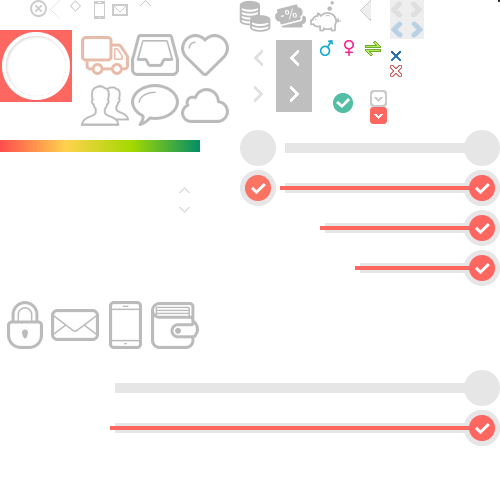
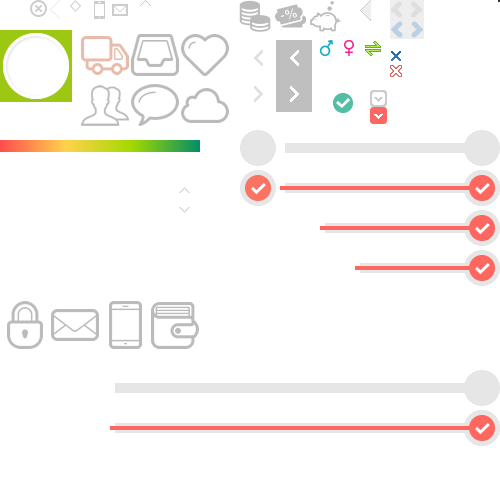
2017 8 11 coding

Changed region(s): [[0.0, 0.06, 0.15, 0.21]]

diff --git a/shop/templates/default/css/member.css b/shop/templates/default/css/member.css
@@ -53,9 +53,9 @@ label.error i { margin-right: 4px;}
 
 /* 按钮
 -------------------------------------------*/
-a.ncm-btn-mini { font: normal 12px/20px arial; color: #777; background-color: #F5F5F5; text-align: center; vertical-align: middle; display: inline-block; height: 20px; padding: 0 10px; margin-right: 2px; border-style: solid; border-width: 1px; border-color: #DCDCDC #DCDCDC #B3B3B3 #DCDCDC; cursor: pointer;}
-a:hover.ncm-btn-mini { text-decoration: none; color: #333; background-color: #E6E6E6;border-color: #CFCFCF #CFCFCF #B3B3B3 #CFCFCF;}
-a.ncm-btn { font: normal 12px/20px "microsoft yahei"; color: #777!important; background-color: #F5F5F5; text-align: center; vertical-align: middle; display: inline-block; height: 20px; padding: 4px 12px; border: solid 1px; border-color: #DCDCDC #DCDCDC #B3B3B3 #DCDCDC; cursor: pointer;}
+a.ncm-btn-mini { font: normal 12px/20px arial; color: #FFF; background-color: #21b384; text-align: center; vertical-align: middle; display: inline-block; height: 20px; padding: 0 10px; margin-right: 2px; border-style: solid; border-width: 1px; border-color: #21b384 #21b384 #0c8860 #21b384; cursor: pointer;}
+a:hover.ncm-btn-mini { text-decoration: none; color: #21b384; background-color: #fff;border-color: #CFCFCF #CFCFCF #B3B3B3 #CFCFCF;}
+a.ncm-btn { font: normal 12px/20px "microsoft yahei"; color: #777!important; background-color: #F5F5F5; text-align: center; vertical-align: middle; display: inline-block; height: 20px; padding: 4px 12px; border: solid 1px; border-color: #21b384 #21b384 #0c8860 #21b384; cursor: pointer;}
 a:hover.ncm-btn { text-decoration: none; color: #333; background-color: #E6E6E6; border-color: #CFCFCF #CFCFCF #B3B3B3 #CFCFCF;}
 a.ncm-btn-mini i, a.ncm-btn i { font-size: 14px !important; vertical-align: middle; margin: 0 4px 0 0 !important;}
 a.ncm-btn-blue, a.ncm-btn-acidblue, a.ncm-btn-green, a.ncm-btn-orange, a.ncm-btn-red, a.ncm-btn-black,
@@ -198,7 +198,7 @@ i[class*="icon-"] { font-size: 14px; margin-right: 4px;}
 .ncm-container .right-layout .wrap { width: 980px; float: right;}
 
 /*用户中心左侧内容*/
-.ncm-l-top { background-color: #EC4F4A; width: 100%; height: 40px; position: relative; z-index: 3;}
+.ncm-l-top { background-color: #88af0e; width: 100%; height: 40px; position: relative; z-index: 3;}
 .ncm-l-top h2 a { font-size: 14px; font-weight: 600; color: #FFF; height: 20px; float: left; padding: 10px 0 10px 20px;}
 .ncm-l-top h2 a:hover { text-decoration: none;}
 .ncm-l-top .set-btn { background: url(../images/member/member_pics.png) no-repeat 0 0; display: block; width: 20px; height: 20px; float: right; margin: 10px;}
@@ -217,18 +217,18 @@ i[class*="icon-"] { font-size: 14px; margin-right: 4px;}
 .set-container .menu-list dd.checked { color: #B22D00; font-weight: 600;}
 .set-container .menu-list dd .checkbox { vertical-align: middle; margin-right: 6px;}
 .set-container .bottom { width: 98%; padding: 10px 0 5px 0; margin: 10px auto 0 auto; border-top: solid 1px #F5F5F5;}
-.set-container .bottom .setting { color: #FFF; background-color: #E43E41; width: 66px; height: 26px; margin-left: 15px; border: none; border-radius: 3px; cursor: pointer;}
+.set-container .bottom .setting { color: #FFF; background-color: #88af0e; width: 66px; height: 26px; margin-left: 15px; border: none; border-radius: 3px; cursor: pointer;}
 .set-container .bottom .cancel { color: #333; line-height: 24px; background-color: #F6F6F6; vertical-align: top; text-align: center; display: inline-block; *display: inline; width: 44px; height: 24px; margin-left: 5px; border: solid 1px #DDD; border-radius: 3px; *zoom: 1; cursor: pointer;}
 .set-container .bottom a:hover { text-decoration: none;}
 
-.ncm-user-info { background-color: #FD6760; padding: 15px 20px; overflow: hidden;}
+.ncm-user-info { background-color: #9cc813; padding: 15px 20px; overflow: hidden;}
 .ncm-user-info .avatar { width: 72px; height: 72px; float: left; position: relative; z-index: 1;}
 .ncm-user-info .avatar .frame { background: url(../images/member/member_pics.png) no-repeat 0 -30px; width: 72px; height: 72px; position: absolute; z-index: 2; top: 0; left: 0;}
 .ncm-user-info .avatar img { width: 64px; height: 64px; position: absolute; z-index: 1; top: 4px; left: 4px;}
 .ncm-user-info .new-message { font: 600 12px/16px Arial; color: #FFF; background-color: #EC4F4A; text-align: center; min-width: 16px; height: 16px; border: solid 2px #FFF;  border-radius: 8px;position: absolute; z-index: 3; top: 0; right: 4px;}
 .ncm-user-info .handle { width: 80px; float: right;}
-.ncm-user-info .handle a { line-height: 24px; color: #FECAC8; display: block; height: 24px; clear: both; }
-.ncm-user-info .handle a:hover { color: #FFF; text-decoration: none;}
+.ncm-user-info .handle a { line-height: 24px; color: #FFF; display: block; height: 24px; clear: both; }
+.ncm-user-info .handle a:hover { color: #587109; text-decoration: none;}
 .ncm-user-info .handle i { font-size: 14px; margin-right: 5px;}
 .ncm-user-info .name { font: 600 14px/20px "microsoft yahei"; color: #FFF; padding-top: 8px; display: block; clear: both;}
 
@@ -273,11 +273,11 @@ i[class*="icon-"] { font-size: 14px; margin-right: 4px;}
 .ncm-index-container #security { height: 150px;}
 .ncm-index-container #transaction,
 .ncm-index-container #shopping { height: 320px;}
-.ncm-index-container #transaction .outline { background-color: #FEFBF8;}
+.ncm-index-container #transaction .outline { background-color: rgba(252, 255, 244, 0.21);}
 .ncm-index-container .normal:hover,
 .ncm-index-container .double:hover { z-index: 2;}
 .ncm-index-container .normal:hover .outline,
-.ncm-index-container .double:hover .outline { border-color: #FD6760; box-shadow: 0 0 5px rgba(204,204,204,0.5);}
+.ncm-index-container .double:hover .outline { border-color: #9cc813; box-shadow: 0 0 5px rgba(204,204,204,0.5);}
 .ncm-index-container .more { line-height: 40px; text-align: center; width: 95%; height: 40px; margin: 8px auto 0 auto; border-top: dotted 1px #E7E7E7;}
 .ncm-index-container .more a { color: #777;}
 .ncm-index-container .more a:hover { text-decoration: none; color: #FD6760;}
@@ -292,7 +292,7 @@ i[class*="icon-"] { font-size: 14px; margin-right: 4px;}
 .ncm-index-container .user-account #voucher .icon { background-position: -275px 0;}
 .ncm-index-container .user-account #points .icon { background-position: -310px 0;}
 .ncm-index-container .user-account li .value { font-weight: 600; line-height: 28px; color: #999; display: block; clear: both;}
-.ncm-index-container .user-account li .value em { font: 24px/28px Arial; color: #666; vertical-align: bottom; margin: 0 4px;}
+.ncm-index-container .user-account li .value em { font: 24px/28px Arial; color: #21b384; vertical-align: bottom; margin: 0 4px;}
 .ncm-index-container .SAM { padding: 20px;}
 .ncm-index-container .SAM-info { height: 20px; margin: 20px 0;}
 .ncm-index-container .SAM-info strong { margin-right: 10px;}
@@ -311,10 +311,10 @@ i[class*="icon-"] { font-size: 14px; margin-right: 4px;}
 .ncm-index-container .SAM-handle i { background: url(../images/member/member_pics.png) no-repeat; vertical-align: middle; display: inline-block; *display: inline/*IE7*/; width: 20px; height: 20px; *zoom: 1/*IE7*/;}
 .ncm-index-container .SAM-handle i.mobile { background-position: -90px 0; margin-right: 4px;}
 .ncm-index-container .SAM-handle i.mail { background-position: -110px 0; margin-right: 6px;}
-.ncm-index-container .SAM-handle a { color: #FF966E;}
+.ncm-index-container .SAM-handle a { color: #405206;}
 .ncm-index-container .SAM-handle em { color: #5BB75B;}
 .ncm-index-container .title { margin: 15px;}
-.ncm-index-container .title h3 { font-size: 14px; font-weight: 600; line-height: 16px; display: inline-block; height: 16px; padding-left: 5px; border-left: solid 3px #FD6760;}
+.ncm-index-container .title h3 { font-size: 14px; font-weight: 600; line-height: 16px; display: inline-block; height: 16px; padding-left: 5px; border-left: solid 3px #7da00e;}
 .ncm-index-container .title ul { font-size: 0; *word-spacing:-1px/*IE6、7*/; vertical-align: top; display: inline-block; *display: inline/*IE6、7*/; margin-left: 80px; overflow: hidden; *zoom: 1/*IE7*/;}
 .ncm-index-container .title ul li { font-size: 12px; line-height: 14px; vertical-align: middle; letter-spacing: normal; word-spacing: normal; display: inline-block; *display: inline; height: 14px; padding: 0 20px; margin-left: -1px; border-left: solid 1px #E7E7E7; *zoom: 1;}
 .ncm-index-container .title ul li em { font-family: Arial; color: #999; margin: 0 4px;}
@@ -334,8 +334,8 @@ i[class*="icon-"] { font-size: 14px; margin-right: 4px;}
 .ncm-index-container .null-tip dd {}
 .ncm-index-container .null-tip h4 { font: 16px/24px "microsoft yahei"; color: #777}
 .ncm-index-container .null-tip h5 { font: 12px/20px "microsoft yahei"; color: #BBB; margin-bottom: 12px;}
-.ncm-index-container #transaction .null-tip h4 { color: #DD997F;} 
-.ncm-index-container #transaction .null-tip h5 { color: #E8BCAA;}
+.ncm-index-container #transaction .null-tip h4 { color: #88af0e;} 
+.ncm-index-container #transaction .null-tip h5 { color: #88af0e;}
 /*交易提醒*/
 .ncm-index-container .order-list {}
 .ncm-index-container .order-list ul { width: 95%; margin: 0 auto;}
@@ -423,7 +423,7 @@ i[class*="icon-"] { font-size: 14px; margin-right: 4px;}
 .tabmenu .tab li a { font-family: "microsoft yahei"; font-size: 12px; line-height: 20px; color: #666; background-color: #F7F7F7; display: block; height: 20px; padding: 7px 19px 8px 19px; border-style: solid; border-color: #E7E7E7; border-width: 1px 1px 0 1px;}
 .tabmenu .tab li a:hover { text-decoration: none; color: #000; background-color: #E7E7E7; }
 .tabmenu .tab .active a,
-.tabmenu .tab .active a:hover { font-size: 14px; font-weight: 600; color: #E60012; background-color: #FFF; padding: 7px 19px 9px 19px; cursor: default;}
+.tabmenu .tab .active a:hover { font-size: 14px; font-weight: 600; color: #5BB75B; background-color: #FFF; padding: 7px 19px 9px 19px; cursor: default;}
 
 .tabmenu .text-intro { line-height: 20px; color: #999; position: absolute; z-index: 99; top: 5px; right: 5px;}
 .tabmenu a.ncm-btn { padding: 5px 13px; position: absolute; z-index: 1; top: -2px; right: 0px;}

diff --git a/shop/templates/default/css/home_header.css b/shop/templates/default/css/home_header.css
@@ -15,10 +15,10 @@
 .public-head-layout .site-ad img { max-width: 120px; max-height: 70px;}
 /* 头部搜索 */
 .head-search-bar { width: 500px; float: left; margin: 20px 0px 0px 20px; position:relative; z-index:100;}
-.head-search-bar .search-form { background-color:#F87622; height: 36px; padding: 2px;}
+.head-search-bar .search-form { background-color:#9cc813; height: 36px; padding: 2px;}
 .head-search-bar .input-text { line-height: 24px; color: #555; width: 69%; height: 24px; float: left; padding: 6px 1%; border: none 0;}
 .head-search-bar .input-submit,
-.head-search-bar .input-submit:hover {float: left;width:79px; height: 36px; background: #F87622; border: none;line-height: 1; color: #fff; font-family: "Microsoft YaHei"; font-size: 16px; cursor: pointer;}
+.head-search-bar .input-submit:hover {float: left;width:79px; height: 36px; background: #9cc813; border: none;line-height: 1; color: #fff; font-family: "Microsoft YaHei"; font-size: 16px; cursor: pointer;}
 .head-search-bar .keyword { line-height: 20px; color: #999; width: 500px; height: 20px; margin-top: 4px; overflow: hidden;}
 .head-search-bar .keyword ul { font-size: 0; *word-spacing:-1px/*IE6、7*/; vertical-align: top; display: inline-block; *display:inline/*IE6、7*/;}
 .head-search-bar .keyword ul li { font-size: 12px; vertical-align: top; letter-spacing: normal; word-spacing: normal; display: inline-block; *display:inline/*IE6、7*/; margin-right: 12px;}
@@ -26,7 +26,7 @@
 .head-search-bar .input-text{width: 69%;margin-left: 60px;text-indent: 5px;}
 #head-search-bar{position: relative;}
 #search ul.tab li:hover{background: #f3f3f3;}
-#search ul.tab{position: absolute;width: 60px;height: 36px;line-height: 36px;margin: 0 2px 0 0;cursor: pointer;font-size: 16px;font-family: "Microsoft YaHei";background: #FFF;border: 2px solid #F87622; text-indent:10px; border-right: none;}
+#search ul.tab{position: absolute;width: 60px;height: 36px;line-height: 36px;margin: 0 2px 0 0;cursor: pointer;font-size: 16px;font-family: "Microsoft YaHei";background: #FFF;border: 2px solid #9cc813; text-indent:10px; border-right: none;}
 #search ul.tab li{padding: 0 1px;height: 36px;line-height: 36px;font-size: 14px;background: #fff;color: #666;border-right: 1px solid #ddd;}
 #search ul.tab li:nth-child(2){display: none;border-left: 1px solid #ddd;border-bottom: 1px solid #ddd;}
 #search .tab li i{height: 0;width: 0;line-height: 0;font-size: 0;position: absolute;right: 10px;border: 3px dashed transparent;border-top: 3px solid #999;}
@@ -86,22 +86,22 @@
 .head-user-menu dl dd .checkout .total-price { line-height: 20px; display: block;}
 .head-user-menu dl dd .checkout .total-price i { font-weight: 600; color: #C00; margin: 0 4px;}
 .head-user-menu dl dd .checkout .total-price em { font-family: Verdana, Geneva, sans-serif; font-size: 18px; font-weight: 600; color: #C00;}
-.head-user-menu dl dd .checkout .btn-cart { float: right; clear: both; line-height: 20px; color: #FFF; background-color: #F87622; padding: 4px 8px; margin-top: 4px; border-radius: 4px;}
+.head-user-menu dl dd .checkout .btn-cart { float: right; clear: both; line-height: 20px; color: #FFF; background-color: #10C55B; padding: 4px 8px; margin-top: 4px; border-radius: 4px;}
 .head-user-menu dl div.addcart-goods-num { font: bold 11px/14px Verdana; color: #FFF; background: #F00; text-align: center; display: inline-block; height: 16px; min-width: 16px; max-width: auto!important; border: none 0; border-radius: 8px; position: absolute; z-index: 3; top: -4px; left: 20px;}
 
 /* 公用导航区域
 -------------------------------------- */
-.public-nav-layout { width: 100%; height: 36px; border-bottom: solid 2px #F87622; margin: 0 auto; position: relative; z-index: 99; zoom: 1;}
+.public-nav-layout { width: 100%; height: 36px; border-bottom: solid 2px #9cc813; margin: 0 auto; position: relative; z-index: 99; zoom: 1;}
 .public-nav-layout .div { margin: 0; padding: 0; _zoom: 1;}
 /*站点导航菜单*/
 .public-nav-layout .site-menu { font-size: 0; *word-spacing:-1px/*IE6、7*/; white-space: nowrap; max-width: 988px; float: left; overflow: hidden;}
 .public-nav-layout .site-menu li { vertical-align: top; letter-spacing: normal; word-spacing: normal; display: inline-block; *display:inline/*IE6、7*/; *zoom: 1;}
 .public-nav-layout .site-menu li a {  font-size: 16px; font-weight: normal; line-height: 20px; color: #333; height: 20px; padding: 8px 18px; display: inline-block; *display:inline/*IE6、7*/; zoom:1;}
 .public-nav-layout .site-menu li a:hover { text-decoration: none; color: #DD4400;}
-.public-nav-layout .site-menu li a.current { font-weight: 600; color: #DD4400; }
+.public-nav-layout .site-menu li a.current { font-weight: 600; color: #81a906; }
 
 /*分类导航菜单*/
-.public-nav-layout .all-category { background-color: #F87622; display: block; width: 212px; height: 36px; float: left;}
+.public-nav-layout .all-category { background-color: #9cc813; display: block; width: 212px; height: 36px; float: left;}
 .public-nav-layout .all-category .title { line-height: 20px; height: 20px; padding: 8px 10px 10px 10px;}
 .public-nav-layout .all-category .title h3 a { font-size: 14px; font-weight: normal; color: #FFF; float: left; margin-left: 4px;}
 
@@ -120,7 +120,7 @@
 .public-nav-layout .category .class h4 a { color: #FFF; font-size: 13px; line-height: 16px; height: 16px;}
 .public-nav-layout .category .menu li.hover .class h4 a { color: #FFF;}
 .public-nav-layout .category .class .arrow { background: url(../images/top_bg.png) no-repeat -150px -10px; width: 3px; height: 5px; float: right; margin: 5px 0 0;}
-.public-nav-layout .category .sub-class { background-color: #FAFAFA; display: none; width: 946px; min-height: 390px; padding: 10px 20px 19px 20px; border-style: solid; border-color: transparent #F87622 #F87622 #F87622; border-width: 0 1px 1px 1px; position: absolute; z-index: 1;top: -1px; left: 212px; }
+.public-nav-layout .category .sub-class { background-color: #FAFAFA; display: none; width: 946px; min-height: 390px; padding: 10px 20px 19px 20px; border-style: solid; border-color: transparent #9cc813 #9cc813 #9cc813; border-width: 0 1px 1px 1px; position: absolute; z-index: 1;top: -1px; left: 212px; }
 .public-nav-layout .category li.hover .sub-class { display: block;}
 .public-nav-layout .category .sub-class-content { display: block; width: 730px; float: left;}
 .public-nav-layout .category .recommend-class { font-size: 0;  word-spacing:-1em; display: block; overflow: hidden;}

diff --git a/shop/templates/default/css/base.css b/shop/templates/default/css/base.css
@@ -261,7 +261,7 @@ a.ncbtn-mini i, a.ncbtn i { font-size: 14px !important; vertical-align: middle; 
 .pagination li a span, .pagination li a:visited span { color: #555; text-decoration: none; background-color: #FFF; position: relative; z-index: 1; }
 .pagination li a:hover span, .pagination li a:active span { color: #F87622; text-decoration: none; border-color: #FC6520; position: relative; z-index: 9; cursor:pointer; }
 .pagination li a:hover { text-decoration: none; }
-.pagination li span.currentpage { color: #FFF; font-weight: bold; background-color: #F87622; border-color: #FC6520; position: relative; z-index: 2; }
+.pagination li span.currentpage { color: #FFF; font-weight: bold; background-color: #9cc813; border-color: #9bca0c; position: relative; z-index: 2; }
 .pagination li:first-child { margin-right: 8px; }
 .pagination li:last-child { margin-left: 8px; }
 /*弹窗登录 v3-b12 */
@@ -303,7 +303,7 @@ a.ncbtn-mini i, a.ncbtn i { font-size: 14px !important; vertical-align: middle; 
 
 #page { background-color: #F5F5F5; width: 100%; height: 29px; border-bottom: 1px solid #D8D8D8; }
 /*会员级别图标*/
-.nc-grade-mini { font: 600 italic 12px/16px Georgia,Arial; text-shadow: 1px 1px 0 rgba(0,0,0,0.25); color: #FFF4F4; background-color: #F33; vertical-align: middle; display: inline-block; *display: inline/*IE7*/; height: 16px; padding: 1px 3px; border-radius: 2px; *zoom: 1/*IE7*/;}
+.nc-grade-mini { font: 600 italic 12px/16px Georgia,Arial; text-shadow: 1px 1px 0 rgba(0,0,0,0.25); color: #FFF4F4; background-color: #5a7309; vertical-align: middle; display: inline-block; *display: inline/*IE7*/; height: 16px; padding: 1px 3px; border-radius: 2px; *zoom: 1/*IE7*/;}
 
 /*用于ToolTip.js配合图片显示
 ******************************/
@@ -345,7 +345,7 @@ a.ncbtn-mini i, a.ncbtn i { font-size: 14px !important; vertical-align: middle; 
 .public-top-layout .quick-menu dl.weixin { width: 100px;}
 .public-top-layout .quick-menu dl.weixin dt { background:url(../images/weixin.png) no-repeat 0 8px; padding-left: 20px;}
 .public-top-layout .quick-menu dl.weixin dd { width: auto; padding: 5px; right: 0; left: auto; text-align:center;}
-.public-top-layout .quick-menu dl.weixin dd h4 { line-height: 18px; color:#F98016; text-align: center; margin: 30px 0 5px 0; font-size: 12px;}
+.public-top-layout .quick-menu dl.weixin dd h4 { line-height: 18px; color:#6f900c; text-align: center; margin: 30px 0 5px 0; font-size: 12px;}
 .public-top-layout .quick-menu dl.weixin dd img { max-width: 96px; max-height: 96px; margin:10px 0}
 .public-top-layout .quick-menu dl dt em { background-image:url(../images/top_ico.png); background-repeat:no-repeat; vertical-align:middle; display:inline-block; width:13px; height:15px; margin:2px 1px 0 0; transition:all .2s; -webkit-transition:all .2s }
 .public-top-layout .quick-menu dl.hover dt em { background-image:url(../images/top_ico.png); background-repeat:no-repeat }
@@ -370,7 +370,7 @@ a.ncbtn-mini i, a.ncbtn i { font-size: 14px !important; vertical-align: middle; 
 .public-top-layout .quick-menu dl.down_app .addurl a i { font-size:14px; margin-right:4px }
 .public-top-layout .quick-menu dl.down_app .addurl a:hover { text-decoration:none; color:#85c441; background-color:#e6f5d1; border-color:#85c441 }
 .public-top-layout .quick-menu .invite { width:65px;}
-.public-top-layout .quick-menu .invite span { color:#F00}
+.public-top-layout .quick-menu .invite span { color:#5e770c}
 .public-top-layout .quick-menu dl.down_app .addurl a:hover i { color:#85c441 }
 .warning { color: #C00; background-color: #FFC; width: 98%; clear: both; padding: 6px; margin: 6px auto; border: 1px dashed #F90;}
 .warning label { clear: both; line-height: 20px;}
@@ -438,8 +438,8 @@ a.ncbtn-mini i, a.ncbtn i { font-size: 14px !important; vertical-align: middle; 
 .nc-appbar-tabs .user .avatar img { width: 28px; height: 28px; border-radius: 14px; margin: 2px 0 0 0;}
 .nc-appbar-tabs .user p { display: block; width: 80px; height: 36px; border-radius: 3px 0 0 3px;left: 0px; line-height: 36px; color: #fff; background-color: #7A6E6E; text-align: center;}
 .nc-appbar-tabs .user:hover { width: 94px; }
-.nc-appbar-tabs .user:hover .avatar { background-color: #F87622; }
-.nc-appbar-tabs .user:hover p { background-color: #F87622; }
+.nc-appbar-tabs .user:hover .avatar { background-color: #81a906; }
+.nc-appbar-tabs .user:hover p { background-color: #81a906; }
 
 .nc-appbar-tabs .tools { position: absolute; z-index: 1; top: 40%;}
 .nc-appbar-tabs .tools { margin-top: 0px;}
@@ -450,15 +450,15 @@ a.ncbtn-mini i, a.ncbtn i { font-size: 14px !important; vertical-align: middle; 
 .nc-appbar-tabs .tools a span { display: block; width: 63px; height: 36px; border-radius: 3px 0 0 3px;left: 0px; line-height: 36px; color: #fff; background-color: #7A6E6E; text-align: center; position: absolute; left: 0px; z-index: 1;}
 
 .nc-appbar-tabs .tools li a:hover { width: 96px;}
-.nc-appbar-tabs .tools li a:hover .tools_img { background-color: #F87622;}
-.nc-appbar-tabs .tools li a:hover span { background-color: #F87622; }
+.nc-appbar-tabs .tools li a:hover .tools_img { background-color: #81a906;}
+.nc-appbar-tabs .tools li a:hover span { background-color: #81a906; }
 
 .nc-appbar-tabs .tools a.chat .tools_img { background-position: 0 0;}
 .nc-appbar-tabs .tools a.compare .tools_img { background-position: 0 -36px;}
 .nc-appbar-tabs .tools a.cart .tools_img { background-position: 0 -72px;}
 .nc-appbar-tabs .tools a.gotop .tools_img { background-position: 0 -108px;}
 .nc-appbar-tabs a.nc-appbar-hide { background:url(../images/appbar-hide.png) no-repeat 0 0 #7A6E6E; border-radius: 3px 0 0 3px; width: 36px; height: 36px; padding: 0; margin: 0; position: absolute; z-index: 2; bottom: 5px ; right: 0px;}
-.nc-appbar-tabs a.nc-appbar-hide:hover { background-color: #F87622;}
+.nc-appbar-tabs a.nc-appbar-hide:hover { background-color: #81a906;}
 /*工具条-会员登录*/
 .nc-appbar-tabs .user-login-box { background-color: #FFF; width: 240px; padding: 10px 40px 30px 40px; border: solid 1px #CCC; position: absolute; z-index: 2; top: 40%; margin-top: -120px; right: 50px; box-shadow: -4px 0 4px rgba(0,0,0,0.25);}
 .nc-appbar-tabs .user-login-box dd img {height: 26px; width: 90px;}

diff --git a/shop/templates/default/css/index.css b/shop/templates/default/css/index.css
@@ -50,7 +50,7 @@ article, aside, dialog, footer, header, section, footer, nav, figure, menu { dis
 .full-screen-slides-pagination li { vertical-align: top; letter-spacing: normal; word-spacing: normal; display: inline-block; *display:inline/*IE6、7*/; list-style:none;border-radius: 50%; margin-left:4px;filter:progid:DXImageTransform.Microsoft.gradient(enabled='true', startColorstr='#3F000000', endColorstr='#3F000000');
 background:rgba(0,0,0,0.25); overflow: hidden; cursor: pointer; *zoom:1;}
 .full-screen-slides-pagination a {  display: block; width:18px;height:18px;line-height:18px;overflow: hidden;text-align: center; color:#fff;font-family:arial;font-size:12px; text-indent:-9999px; }
-.full-screen-slides-pagination .current { background: #F30; }
+.full-screen-slides-pagination .current { background: #9dc919; }
 .home-focus-layout .banner-arrow {width: 762px;position: absolute;top: 95px;left: 50%;margin-left: -395px; z-index:99999}
 .home-focus-layout .arrow { background: url(../images/home_bg.png) no-repeat; width: 45px; height: 100px; position: absolute; z-index: 2; top:25px; cursor: pointer;}/*40px*/
 .home-focus-layout  .pre { background-position: 0 -100px; left:6px; }
@@ -159,9 +159,9 @@ background:rgba(0,0,0,0.5); text-overflow: ellipsis; white-space: nowrap; width:
 height: 40px; float: left; padding: 0; position: relative; z-index: 1; cursor: pointer; }
 .home-sale-layout .tabs-nav li h3 { font-size: 12px; font-weight: 600; line-height: 38px; text-align: center; }
 .home-sale-layout .tabs-nav li i { font-size: 0px; line-height: 0; display: none; width: 0px; height: 0px; float: right; margin-left: -4px; border-width: 5px; border-style: dashed dashed solid dashed; position: absolute; z-index: 1; bottom: 0; left: 50%; }
-.home-sale-layout .tabs-nav .tabs-selected { border-style: solid; border-width: 0 0 2px 0; border-color: #F87622; }
-.home-sale-layout .tabs-nav .tabs-selected i { display: block; border-color: transparent transparent #F87622; }
-.home-sale-layout .tabs-nav .tabs-selected h3 { color: #F87622; }
+.home-sale-layout .tabs-nav .tabs-selected { border-style: solid; border-width: 0 0 2px 0; border-color: #9cc813; }
+.home-sale-layout .tabs-nav .tabs-selected i { display: block; border-color: transparent transparent #9cc813; }
+.home-sale-layout .tabs-nav .tabs-selected h3 { color: #7da00e; }
 .home-sale-layout .tabs-panel { width: 989px; overflow: hidden; }
 .home-sale-layout .tabs-panel ul { width: 990px; margin-left: -1px; overflow: hidden; }
 .home-sale-layout .tabs-panel ul li { width: 197px; height: 235px; padding: 15px 0 0; border-left: dotted 1px #F0F0F0; float: left; overflow: hidden; }
@@ -176,8 +176,8 @@ width: 160px; height: 160px; overflow: hidden; }
 .home-sale-layout .tabs-panel dl dd.goods-price { line-height: 20px; color: #999; position: absolute; z-index: auto; top: 200px; left: 0; }
 .home-sale-layout .tabs-panel dl dd.goods-price em { font-size: 14px; vertical-align: middle; }
 .home-sale-layout .right-sidebar { width: 211px; float: right; }
-.home-sale-layout .right-sidebar .title { height: 40px; border-bottom: solid 2px #f87622; }
-.home-sale-layout .right-sidebar .title h3 { font-size: 12px; font-weight: 600; line-height: 38px; color: #F87622; float: left; margin-left: 20px; }
+.home-sale-layout .right-sidebar .title { height: 40px; border-bottom: solid 2px #9cc813; }
+.home-sale-layout .right-sidebar .title h3 { font-size: 12px; font-weight: 600; line-height: 38px; color: #7da00e; float: left; margin-left: 20px; }
 .home-sale-layout .right-sidebar .title a { line-height: 38px; float: right; margin-right: 6px; }
 .home-sale-layout .sale-discount { width: 210px; height: 252px; overflow: hidden; position: relative; z-index: 1; }
 .home-sale-layout .sale-discount ul { width: auto; height: 252px; position: absolute; z-index: 1; }

diff --git a/shop/templates/default/dw/css/index.css b/shop/templates/default/dw/css/index.css
@@ -594,7 +594,7 @@
 }
 .goods_for_one{
     width: 290px;
-    height: 342px;
+    height: 233px;
     float: left;
     margin: 0 5px;
     border: 1px solid #e5e5e5;

diff --git a/shop/templates/default/duyiwang/index.php b/shop/templates/default/duyiwang/index.php
@@ -360,45 +360,22 @@ body{background-color: #f8f8f8; }
 <div class="goods_for">
     <div class="goods_for_tirle"></div>
     <ul class="goods_for_con">
+        
         <li class="goods_for_one">
-            <a href="" class="goods_for_img"><img src="themes/image/banner.png" alt=""></a>
-            <div class="goods_for_name">
-                <span></span>
-                <span>独一张·温泉</span>
-                <span></span>
-            </div>
-            <a href="" class="goods_for_more">查看更多</a>
+            <?php echo rec(9);?>
         </li>
         <li class="goods_for_one">
-            <a href="" class="goods_for_img"><img src="themes/image/banner.png" alt=""></a>
-            <div class="goods_for_name">
-                <span></span>
-                <span>独一张·温泉</span>
-                <span></span>
-            </div>
-            <a href="" class="goods_for_more">查看更多</a>
+            <?php echo rec(10);?>
         </li>
         <li class="goods_for_one">
-            <a href="" class="goods_for_img"><img src="themes/image/banner.png" alt=""></a>
-            <div class="goods_for_name">
-                <span></span>
-                <span>独一张·温泉</span>
-                <span></span>
-            </div>
-            <a href="" class="goods_for_more">查看更多</a>
+            <?php echo rec(11);?>
         </li>
         <li class="goods_for_one">
-            <a href="" class="goods_for_img"><img src="themes/image/banner.png" alt=""></a>
-            <div class="goods_for_name">
-                <span></span>
-                <span>独一张·温泉</span>
-                <span></span>
-            </div>
-            <a href="" class="goods_for_more">查看更多</a>
+            <?php echo rec(12);?>
         </li>
 
     </ul>
-    <div class="goods_forMore">更多</div>
+    <div class="goods_forMore"><a href="<?php echo urlShop("index","index")?>" style="color:#fff">更多</a></div>
     <div class="goods_forME">TRADITIONAL NOURISHING</div>
 </div>
 <!--左边固定弹框开始-->

diff --git a/shop/templates/default/layout/layout_top.php b/shop/templates/default/layout/layout_top.php
@@ -106,7 +106,7 @@
 </div>
 <?php } ?>
 <div class="public-top-layout w">
-  <div class="topbar wrapper">
+  <div class="topbar wrapper" style="width:1200px">
     <div class="user-entry">
       <?php if($_SESSION['is_login'] == '1'){?>
       <?php echo $lang['nc_hello'];?> <span>
